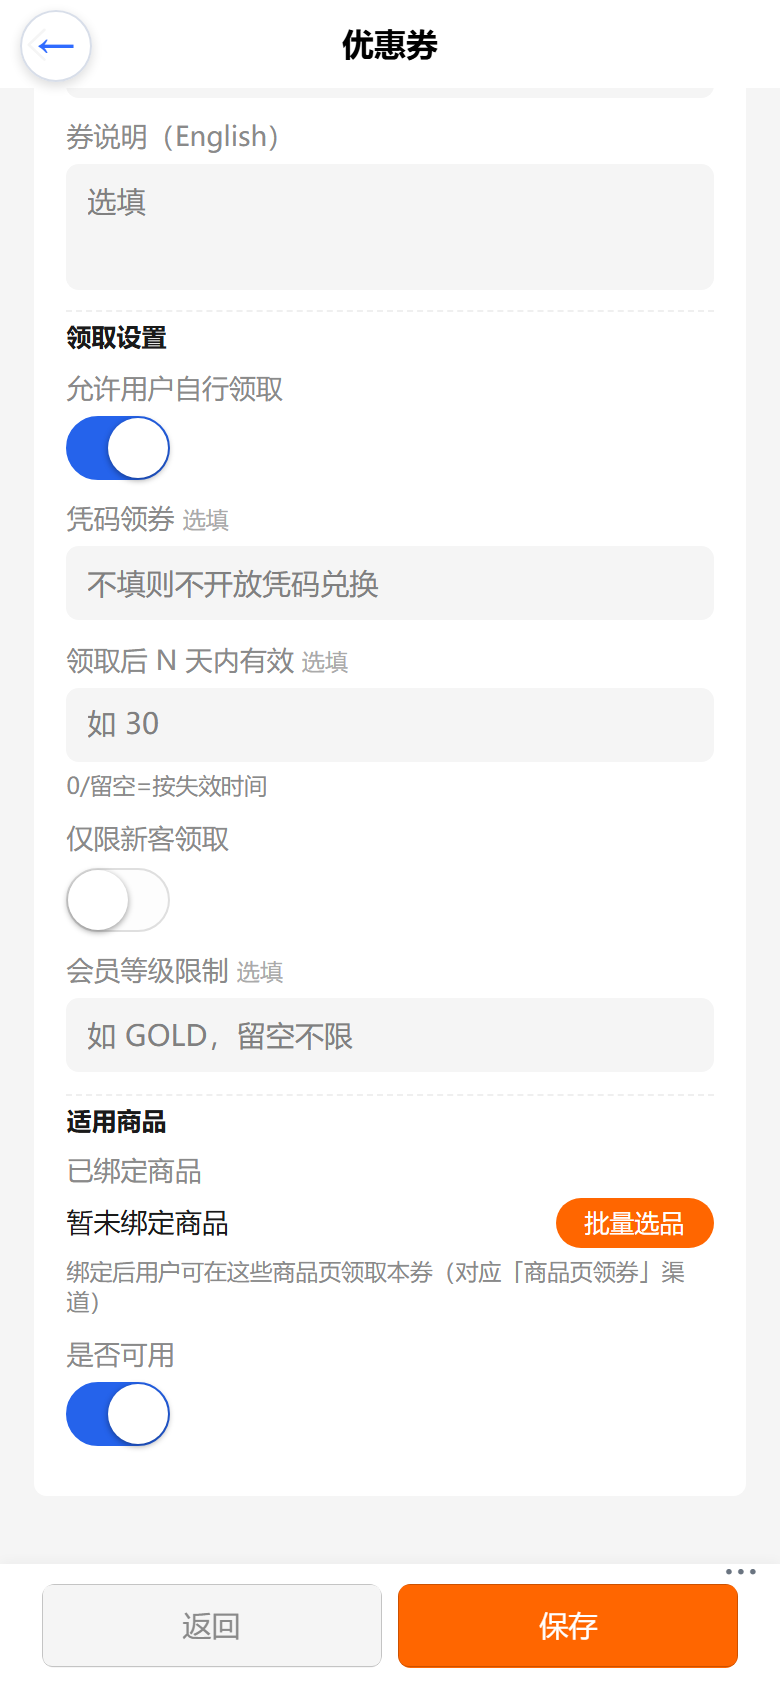
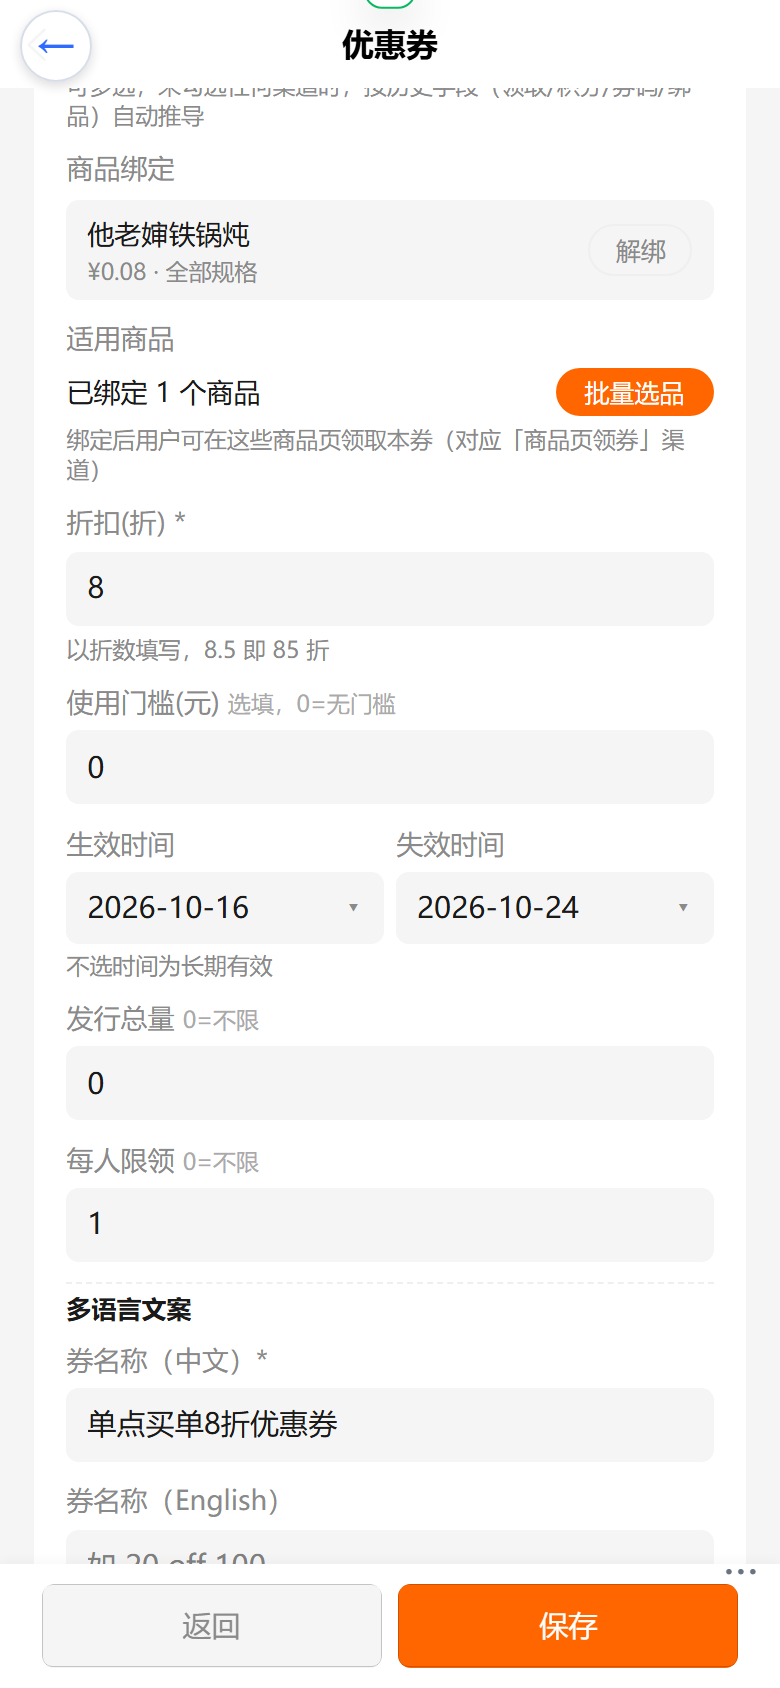
refactor(web-admin): 券编辑页批量选品区上移至折扣前，移除重复的内联搜索绑品
- CouponBindingCard 只保留已绑列表与解绑（搜索绑品统一走批量选品页），新增 reload 暴露
- 编辑页「适用商品」区块从底部上移至折扣字段上方（原搜索区域位置），从批量选品页返回时同步刷新计数与内联列表
- 手册图 O6f 更新为新版式截图（390x844 dpr=2）；新增 _shot_coupon82_layout.py 截图脚本

diff --git a/web-admin/src/components/coupon/CouponBindingCard.vue b/web-admin/src/components/coupon/CouponBindingCard.vue
@@ -1,9 +1,6 @@
 <template>
   <view class="cbc">
-    <!-- 已绑商品列表 -->
-    <view class="cbc-head">
-      <text class="cbc-count">{{ boundText }}</text>
-    </view>
+    <!-- 已绑商品列表（搜索绑品功能由「批量选品」页承担，此处仅展示/解绑） -->
     <view class="cbc-list">
       <view class="cbc-row" v-for="r in boundRows" :key="r.productId">
         <view class="cbc-info">
@@ -15,31 +12,14 @@
       <view v-if="!boundRows.length && !loading" class="cbc-empty">{{ $t('couponBinding.boundNone') }}</view>
       <view v-if="loading" class="cbc-empty">{{ $t('couponBinding.loading') }}</view>
     </view>
-
-    <!-- 商品搜索 -->
-    <view class="cbc-search">
-      <input class="cbc-ipt" v-model="term" :placeholder="$t('couponBinding.searchPh')" confirm-type="search" @confirm="doSearch" />
-      <text class="cbc-btn" @tap="doSearch">{{ $t('couponBinding.search') }}</text>
-    </view>
-    <view class="cbc-list">
-      <view class="cbc-row" v-for="p in results" :key="p.id">
-        <view class="cbc-info">
-          <text class="cbc-name">{{ p.name }}</text>
-          <text class="cbc-sub">{{ resultSub(p) }}</text>
-        </view>
-        <text class="cbc-op bind" @tap="onBind(p)">+ {{ $t('couponBinding.bind') }}</text>
-      </view>
-      <view v-if="searched && !results.length && !searching" class="cbc-empty">{{ $t('couponBinding.empty') }}</view>
-      <view v-if="searching" class="cbc-empty">{{ $t('couponBinding.loading') }}</view>
-    </view>
   </view>
 </template>
 
 <script lang="ts" setup>
-import { ref, computed, watch } from 'vue';
+import { ref, watch } from 'vue';
 import { fetchPickerProducts, type PickerProductRow } from '../../apis/product';
 import {
-  fetchCouponBoundProducts, bindProductsToCoupon, unbindProductFromCoupon,
+  fetchCouponBoundProducts, unbindProductFromCoupon,
   type CouponBoundProductRow,
 } from '../../apis/coupon';
 import { useLocaleStore } from '../../stores/localeStore';
@@ -60,17 +40,8 @@ interface BoundRow {
 const loading = ref(false);
 const boundRows = ref<BoundRow[]>([]);
 
-const term = ref('');
-const searching = ref(false);
-const searched = ref(false);
-const results = ref<PickerProductRow[]>([]);
-
 /** 搜索/预取结果缓存：productId → 商品信息（已绑行的名称/价格尽量从这里取） */
 const productMap = new Map<string, PickerProductRow>();
-
-const boundText = computed(() =>
-  locale.t('couponBinding.boundCount').replace('{n}', String(boundRows.value.length)),
-);
 
 function absorbProducts(list: PickerProductRow[]) {
   for (const p of list) productMap.set(p.id, p);
@@ -86,11 +57,6 @@ function priceText(p?: PickerProductRow): string {
   if (!p?.variants?.length) return '';
   const min = Math.min(...p.variants.map((v) => v.priceYuan));
   return `¥${min.toFixed(2)}`;
-}
-
-function resultSub(p: PickerProductRow): string {
-  const parts = [priceText(p), variantText(null, p.variants?.length || 0)].filter(Boolean);
-  return parts.join(' · ');
 }
 
 /** 用缓存商品信息重算已绑行展示（名称/价格拿不到时回退 #productId） */
@@ -125,39 +91,6 @@ async function reload() {
   }
 }
 
-async function doSearch() {
-  if (searching.value) return;
-  searching.value = true;
-  try {
-    const res = await fetchPickerProducts({
-      take: 20,
-      skip: 0,
-      term: term.value.trim() || undefined,
-      enabled: true,
-    });
-    absorbProducts(res.items);
-    const boundIds = new Set(boundRows.value.map((r) => r.productId));
-    results.value = res.items.filter((p) => !boundIds.has(p.id));
-    searched.value = true;
-  } catch (e: any) {
-    uni.showToast({ title: e?.message || locale.t('couponBinding.opFailed'), icon: 'none' });
-  } finally {
-    searching.value = false;
-  }
-}
-
-function onBind(p: PickerProductRow) {
-  bindProductsToCoupon(props.templateId, [p.id])
-    .then(() => {
-      uni.showToast({ title: locale.t('couponBinding.bound'), icon: 'none' });
-      emit('changed');
-      reload();
-    })
-    .catch((e: any) => {
-      uni.showToast({ title: e?.message || locale.t('couponBinding.opFailed'), icon: 'none' });
-    });
-}
-
 function onUnbind(r: BoundRow) {
   uni.showModal({
     title: locale.t('couponBinding.unbind'),
@@ -178,23 +111,19 @@ function onUnbind(r: BoundRow) {
 }
 
 watch(() => props.templateId, (v) => { if (v) reload(); }, { immediate: true });
+// 供编辑页在「批量选品」返回时主动刷新已绑列表
+defineExpose({ reload });
 </script>
 
 <style lang="scss" scoped>
 .cbc { padding-top: 4rpx;
-  .cbc-head { display: flex; align-items: center; margin-bottom: 12rpx;
-    .cbc-count { font-size: 26rpx; color: $wa-ink; } }
   .cbc-list { margin-bottom: 16rpx;
     .cbc-row { display: flex; align-items: center; justify-content: space-between; padding: 14rpx 20rpx; background: $wa-bg; border-radius: $wa-radius; margin-bottom: 12rpx;
       .cbc-info { flex: 1; margin-right: 16rpx;
         .cbc-name { display: block; font-size: 26rpx; color: $wa-ink; }
         .cbc-sub { display: block; font-size: 22rpx; color: $wa-muted; margin-top: 4rpx; } }
       .cbc-op { flex-shrink: 0; font-size: 24rpx; border-radius: 999rpx; padding: 8rpx 24rpx;
-        &.bind { color: #fff; background: $wa-accent; }
         &.unbind { color: $wa-muted; border: 1rpx solid $wa-rule; } } }
     .cbc-empty { text-align: center; font-size: 24rpx; color: $wa-muted; padding: 20rpx 0; } }
-  .cbc-search { display: flex; align-items: center; margin-bottom: 16rpx;
-    .cbc-ipt { flex: 1; background: $wa-bg; border-radius: $wa-radius; padding: 14rpx 20rpx; font-size: 26rpx; color: $wa-ink; box-sizing: border-box; }
-    .cbc-btn { flex-shrink: 0; margin-left: 16rpx; font-size: 24rpx; color: #fff; background: $wa-accent; border-radius: $wa-radius; padding: 12rpx 28rpx; } }
 }
 </style>

diff --git a/web-admin/src/pages/coupon/edit/index.vue b/web-admin/src/pages/coupon/edit/index.vue
@@ -37,11 +37,21 @@
         <text class="tip">{{ $t('couponEdit.channelsTip') }}</text>
       </view>
 
-      <!-- 商品专享券绑定：勾选「商品页领券」渠道时管理绑定商品 -->
+      <!-- 商品专享券绑定：勾选「商品页领券」渠道时内联展示已绑商品（解绑入口） -->
       <view class="field" v-if="form.channels.includes('PRODUCT')">
         <text class="label">{{ $t('couponBinding.title') }}</text>
-        <CouponBindingCard v-if="id" :template-id="id || ''" @changed="loadBound" />
+        <CouponBindingCard v-if="id" ref="bindCardRef" :template-id="id || ''" @changed="loadBound" />
         <text v-else class="tip">{{ $t('couponBinding.saveFirst') }}</text>
+      </view>
+
+      <!-- 适用商品：批量选品入口（上移至折扣前，搜索绑品功能统一走批量选品页） -->
+      <view class="field">
+        <text class="label">{{ $t('couponEdit.bindSection') }}</text>
+        <view class="bind-row">
+          <text class="bind-cnt">{{ boundCountText }}</text>
+          <text class="btn-mini" @tap="goBindProducts">{{ $t('couponEdit.batchPick') }}</text>
+        </view>
+        <text class="tip">{{ $t('couponEdit.bindTip') }}</text>
       </view>
 
       <!-- 出售价：仅「券商城」渠道可售 -->
@@ -135,16 +145,6 @@
         <input class="ipt" v-model="form.memberLevel" :placeholder="$t('couponEdit.phMemberLevel')" />
       </view>
 
-      <text class="lang-hd">{{ $t('couponEdit.bindSection') }}</text>
-      <view class="field">
-        <text class="label">{{ $t('couponEdit.boundLabel') }}</text>
-        <view class="bind-row">
-          <text class="bind-cnt">{{ boundCountText }}</text>
-          <text class="btn-mini" @tap="goBindProducts">{{ $t('couponEdit.batchPick') }}</text>
-        </view>
-        <text class="tip">{{ $t('couponEdit.bindTip') }}</text>
-      </view>
-
       <view class="field">
         <text class="label">{{ $t('couponEdit.enabledLabel') }}</text>
         <switch :checked="form.enabled" @change="form.enabled = $event.detail.value" color="#2563eb" />
@@ -170,6 +170,9 @@ import { backToHome } from '../../../utils/h5Nav';
 import CouponBindingCard from '../../../components/coupon/CouponBindingCard.vue';
 
 const locale = useLocaleStore();
+
+// 内联已绑列表（商品页领券渠道）：从批量选品页返回时主动刷新
+const bindCardRef = ref<InstanceType<typeof CouponBindingCard> | null>(null);
 
 const id = ref<string | null>(null);
 // 支持「商品页快捷建券」：带 productId 时，新建的模板自动绑定到该商品
@@ -400,8 +403,12 @@ async function loadAll() {
 }
 
 onMounted(loadAll);
-// 从选品页返回时仅刷新「已绑商品」计数（首次显示时 formLoaded=false，由 onMounted 统一加载）
-onShow(() => { if (formLoaded.value) loadBound(); });
+// 从选品页返回时刷新「已绑商品」计数与内联已绑列表（首次显示时 formLoaded=false，由 onMounted 统一加载）
+onShow(() => {
+  if (!formLoaded.value) return;
+  loadBound();
+  bindCardRef.value?.reload();
+});
 
   // 后端 field resolver 返回的 name 为按会话语言本地化后的纯字符串，仅作 zh 兜底
   function plainName(name: string): string { return name || ''; }

diff --git a/web-admin/_e2e/_shot_coupon82_layout.py b/web-admin/_e2e/_shot_coupon82_layout.py
@@ -1,0 +1,58 @@
+# -*- coding: utf-8 -*-
+"""券编辑页布局优化截图（390x844 dpr=2，硬规范）：批量选品区上移 + 移除内联搜索
+本地预览 http://localhost:5280/guanli/（VITE_API_URL=https://e.joho.cn 直连生产 admin-api）
+登录：ADMIN_USER / ADMIN_PASS；t2 渠道经 localStorage 注入（superadmin 店铺列表不含 t2）
+输出：web-admin/src/static/manual/shots/coupon3_02_edit_bind.png（适用商品区块 + 批量选品入口）
+"""
+import time
+from playwright.sync_api import sync_playwright
+
+BASE = 'http://localhost:5280/guanli/'
+SHOT = 'd:/zhao/vshop/web-admin/src/static/manual/shots/coupon3_02_edit_bind.png'
+
+
+def scroll_to(pg, text, offset=120):
+    return pg.evaluate(
+        """(t) => {
+      const els = Array.from(document.querySelectorAll('*')).filter(e =>
+        (e.textContent||'').trim() === t && e.offsetParent !== null);
+      if (els.length) { const r = els[0].getBoundingClientRect();
+        window.scrollBy(0, r.top + window.scrollY - %d); return 'SCROLLED'; }
+      return 'NOBLOCK';
+    }""" % offset, text)
+
+
+with sync_playwright() as p:
+    b = p.chromium.launch(headless=True)
+    ctx = b.new_context(viewport={'width': 390, 'height': 844}, device_scale_factor=2,
+                        is_mobile=True, has_touch=True, locale='zh-CN')
+    pg = ctx.new_page()
+
+    pg.goto(BASE, wait_until='networkidle', timeout=45000)
+    pg.evaluate('localStorage.clear()')
+    pg.reload(wait_until='networkidle', timeout=45000)
+    pg.locator('input').nth(0).wait_for(state='visible', timeout=30000)
+    pg.locator('input').nth(0).fill('superadmin')
+    pg.locator('input').nth(1).fill('__REDACTED__')
+    pg.locator('button, .btn').first.click()
+    time.sleep(7)
+    print('after login url =', pg.url)
+
+    # superadmin 店铺列表不含 t2：直接注入 t2 渠道 token
+    pg.evaluate("""() => {
+      localStorage.setItem('wa_channel_code', 't2');
+      localStorage.setItem('wa_channel_token', '66ruvnhh34svhckaa2i');
+    }""")
+
+    pg.goto(BASE + '#/pages/coupon/edit/index?id=82', wait_until='networkidle', timeout=45000)
+    time.sleep(5)
+    body = pg.inner_text('body')
+    print('edit has 适用商品:', '适用商品' in body, '| 折扣:', '折扣' in body, '| 他老婶铁锅炖:', '他老婶铁锅炖' in body)
+    assert '他老婶铁锅炖' in body, 't2 渠道未生效：看不到已绑商品'
+
+    scroll_to(pg, '适用商品', 160)
+    time.sleep(1.5)
+    pg.screenshot(path=SHOT)
+    print('shot:', SHOT)
+    b.close()
+print('done')
